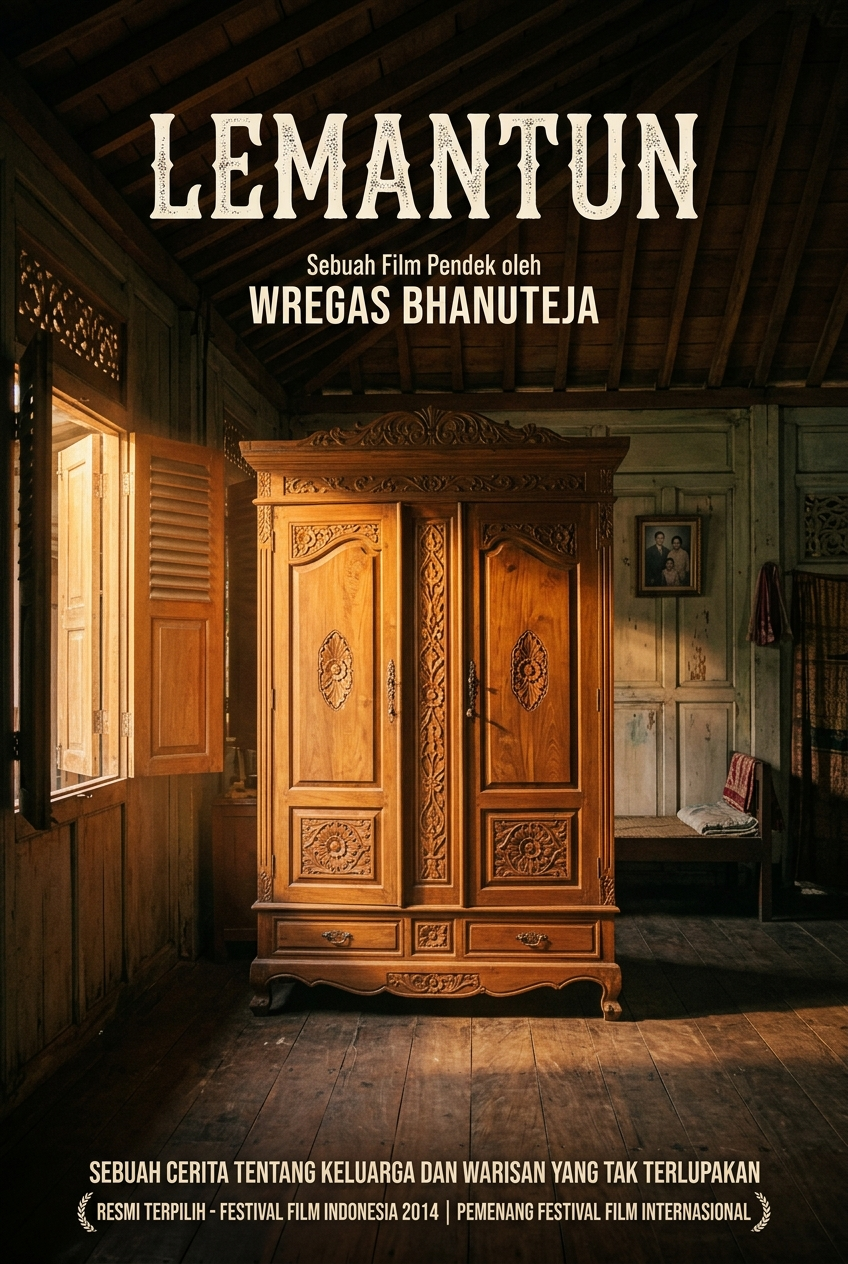
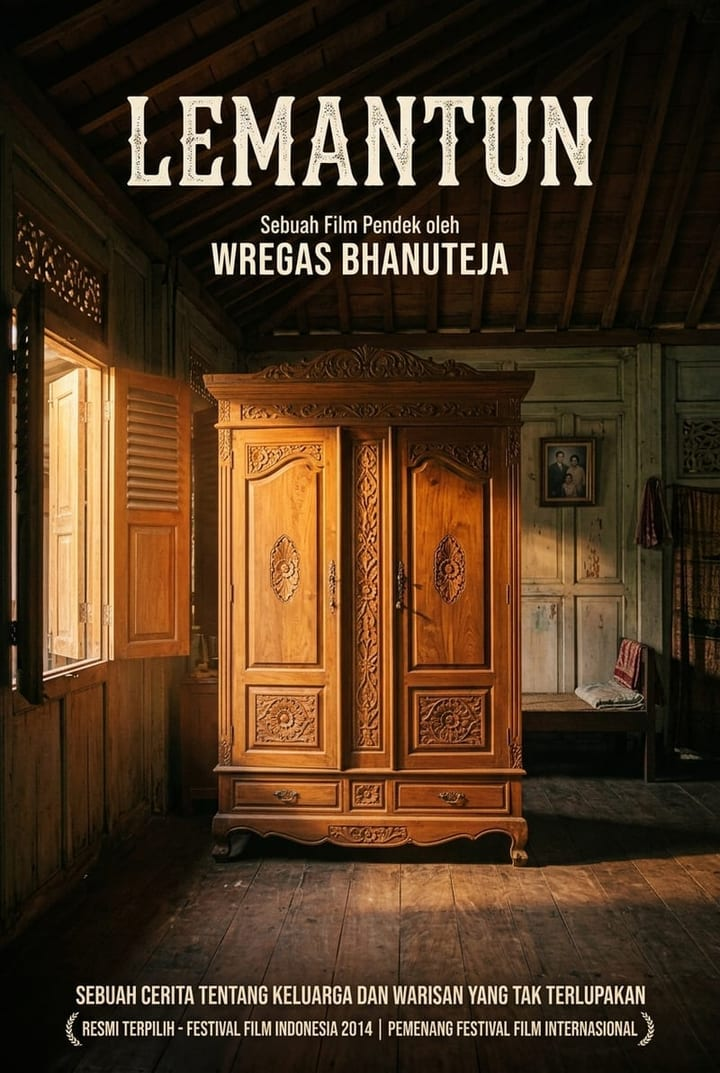
perf(assets): add automated prebuild compression script and optimize poster images

diff --git a/scripts/compress-assets.ts b/scripts/compress-assets.ts
@@ -1,0 +1,178 @@
+import fs from "node:fs/promises";
+import path from "node:path";
+import sharp from "sharp";
+
+interface CompressStats {
+  filePath: string;
+  originalBytes: number;
+  compressedBytes: number;
+  savedPercent: number;
+  status: "compressed" | "skipped" | "error";
+}
+
+const SUPPORTED_EXTENSIONS = new Set([".jpg", ".jpeg", ".png", ".webp"]);
+const MAX_WIDTH = 720;
+const MAX_HEIGHT = 1080;
+const MIN_SAVED_BYTES = 2048;
+const MIN_SAVED_PERCENT = 5;
+
+function formatBytes(bytes: number): string {
+  if (bytes < 1024) return `${bytes} B`;
+  if (bytes < 1024 * 1024) return `${(bytes / 1024).toFixed(1)} KB`;
+  return `${(bytes / (1024 * 1024)).toFixed(2)} MB`;
+}
+
+async function collectImageFiles(dir: string): Promise<string[]> {
+  const entries = await fs.readdir(dir, { withFileTypes: true });
+  const files: string[] = [];
+
+  for (const entry of entries) {
+    const fullPath = path.join(dir, entry.name);
+    if (entry.isDirectory()) {
+      const nested = await collectImageFiles(fullPath);
+      files.push(...nested);
+    } else if (entry.isFile()) {
+      const ext = path.extname(entry.name).toLowerCase();
+      if (SUPPORTED_EXTENSIONS.has(ext)) {
+        files.push(fullPath);
+      }
+    }
+  }
+
+  return files;
+}
+
+async function compressImage(filePath: string): Promise<CompressStats> {
+  const stat = await fs.stat(filePath);
+  const originalBytes = stat.size;
+  const ext = path.extname(filePath).toLowerCase();
+
+  try {
+    const image = sharp(filePath);
+    const metadata = await image.metadata();
+
+    let pipeline = sharp(filePath).rotate();
+
+    if (
+      metadata.width &&
+      metadata.height &&
+      (metadata.width > MAX_WIDTH || metadata.height > MAX_HEIGHT)
+    ) {
+      pipeline = pipeline.resize({
+        width: MAX_WIDTH,
+        height: MAX_HEIGHT,
+        fit: "inside",
+        withoutEnlargement: true,
+      });
+    }
+
+    if (ext === ".jpg" || ext === ".jpeg") {
+      pipeline = pipeline.jpeg({
+        quality: 82,
+        progressive: true,
+        mozjpeg: true,
+      });
+    } else if (ext === ".png") {
+      pipeline = pipeline.png({
+        compressionLevel: 9,
+        palette: true,
+        quality: 85,
+      });
+    } else if (ext === ".webp") {
+      pipeline = pipeline.webp({
+        quality: 82,
+        effort: 6,
+      });
+    }
+
+    const compressedBuffer = await pipeline.toBuffer();
+    const compressedBytes = compressedBuffer.length;
+    const diff = originalBytes - compressedBytes;
+    const savedPercent = originalBytes > 0 ? (diff / originalBytes) * 100 : 0;
+
+    if (diff >= MIN_SAVED_BYTES && savedPercent >= MIN_SAVED_PERCENT) {
+      await fs.writeFile(filePath, compressedBuffer);
+      return {
+        filePath,
+        originalBytes,
+        compressedBytes,
+        savedPercent,
+        status: "compressed",
+      };
+    }
+
+    return {
+      filePath,
+      originalBytes,
+      compressedBytes: originalBytes,
+      savedPercent: 0,
+      status: "skipped",
+    };
+  } catch (error) {
+    console.error(`Failed to compress ${filePath}:`, error);
+    return {
+      filePath,
+      originalBytes,
+      compressedBytes: originalBytes,
+      savedPercent: 0,
+      status: "error",
+    };
+  }
+}
+
+async function main() {
+  const publicDir = path.resolve(process.cwd(), "public");
+
+  try {
+    await fs.access(publicDir);
+  } catch {
+    console.log("public directory not found, skipping asset compression.");
+    return;
+  }
+
+  console.log("[macine] Scanning public directory for assets...");
+  const imageFiles = await collectImageFiles(publicDir);
+
+  if (imageFiles.length === 0) {
+    console.log("[macine] No image assets found.");
+    return;
+  }
+
+  console.log(`[macine] Found ${imageFiles.length} image asset(s). Starting compression...\n`);
+
+  const results: CompressStats[] = [];
+  let totalOriginal = 0;
+  let totalCompressed = 0;
+
+  for (const file of imageFiles) {
+    const result = await compressImage(file);
+    results.push(result);
+    totalOriginal += result.originalBytes;
+    totalCompressed += result.compressedBytes;
+
+    const relPath = path.relative(process.cwd(), result.filePath);
+    if (result.status === "compressed") {
+      console.log(
+        `[OK] ${relPath}: ${formatBytes(result.originalBytes)} -> ${formatBytes(result.compressedBytes)} (-${result.savedPercent.toFixed(1)}%)`
+      );
+    } else if (result.status === "skipped") {
+      console.log(`[SKIP] ${relPath}: already optimal (${formatBytes(result.originalBytes)})`);
+    } else {
+      console.log(`[ERR] ${relPath}: failed to process`);
+    }
+  }
+
+  const totalSaved = totalOriginal - totalCompressed;
+  const totalSavedPercent = totalOriginal > 0 ? (totalSaved / totalOriginal) * 100 : 0;
+
+  console.log("\n------------------------------------------------------------");
+  console.log(
+    `[macine] Total: ${formatBytes(totalOriginal)} -> ${formatBytes(totalCompressed)} (Saved ${formatBytes(totalSaved)}, -${totalSavedPercent.toFixed(1)}%)`
+  );
+  console.log("------------------------------------------------------------\n");
+}
+
+main().catch((err) => {
+  console.error("[macine] Asset compression encountered an unhandled error:", err);
+  process.exit(1);
+});
